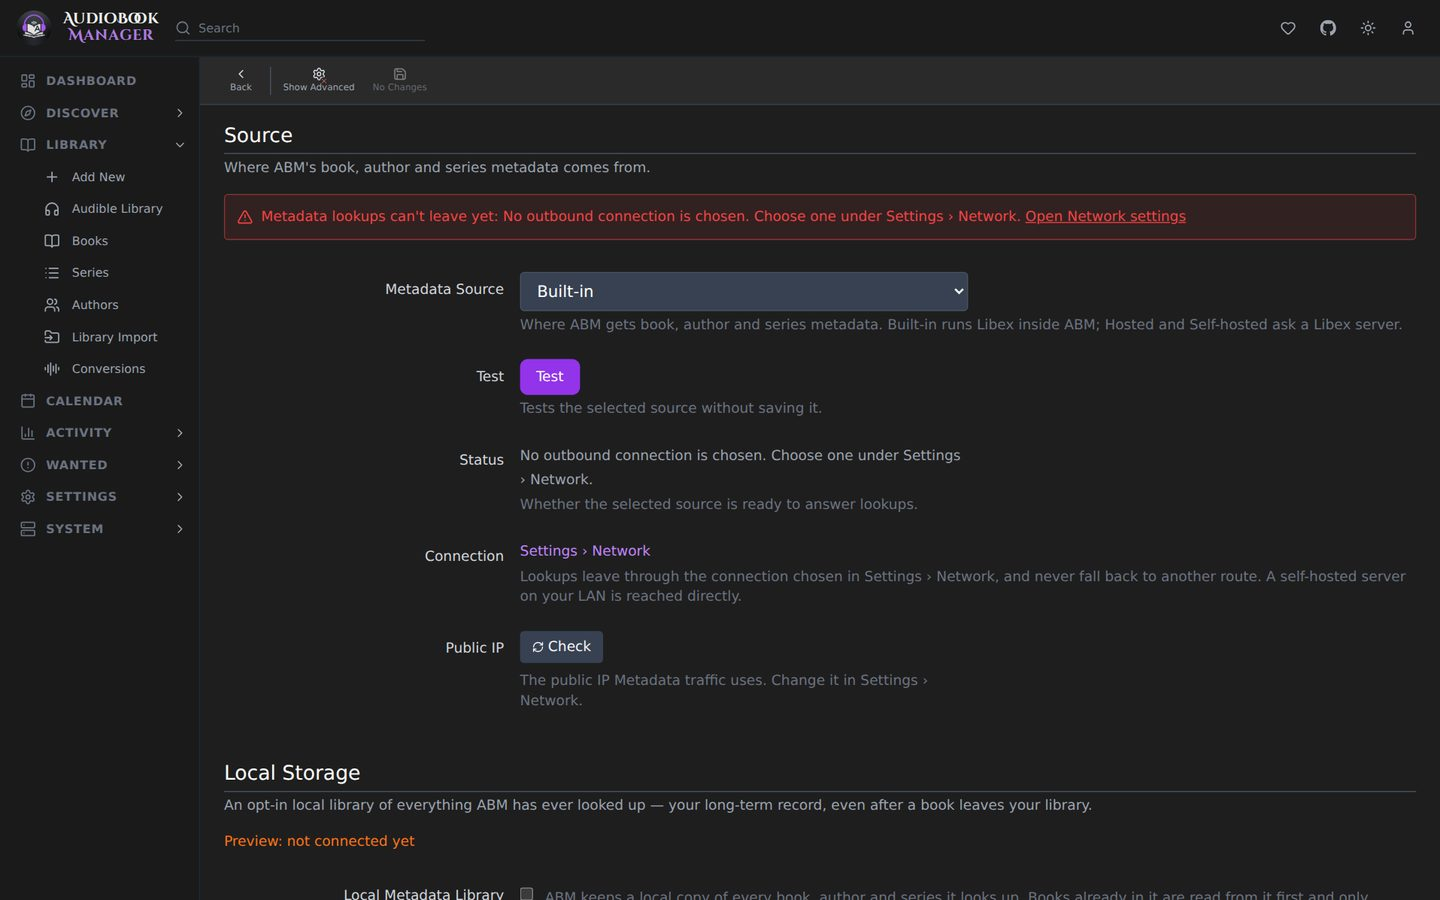
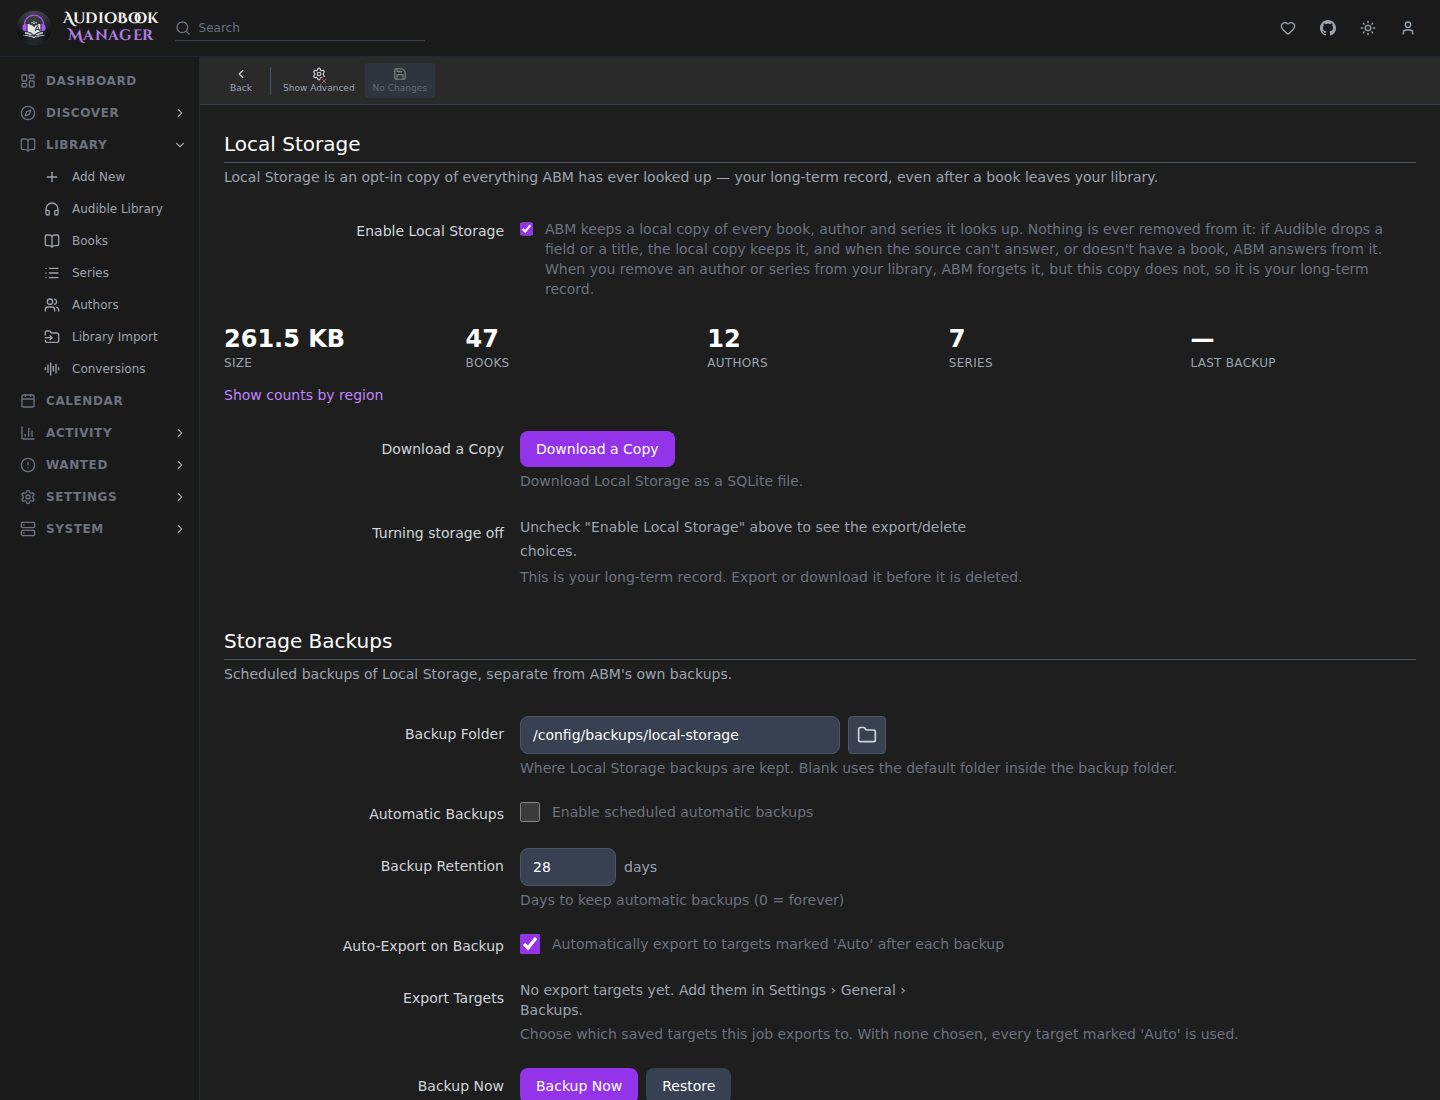
recapture the metadata settings screenshot from the local storage build and update the english variants to match the english source

diff --git a/src/content/docs/en-au/settings/metadata.md b/src/content/docs/en-au/settings/metadata.md
@@ -34,7 +34,39 @@ Tag fields, all on by default: Title, Artist (Author), Album Artist (Author), Al
 
 ## Local Storage
 
-With the Built-in source, **Local Storage** and **Storage Backups** sections are shown. They are a preview and are not connected yet. See [Your metadata, your control](/en-au/metadata/control/).
+**Enable Local Storage** is off by default and is there for every metadata source. Once it is on, ABM saves every book, author and series a lookup returns, taken from the answers it receives, into a file of its own. It shows the file's size and how many books, authors and series it holds. The totals cover every region, with a breakdown by region when more than one region has data. A file that can't be opened is reported there and never stops lookups. How it is used is on [Your metadata, your control](/en-au/metadata/control/#local-storage).
+
+**Download a Copy** saves the library as a single SQLite file.
+
+Turning it off opens a dialog. You can pick any combination of two optional copies, or neither:
+
+- **Export to backup targets.** Sends the library to your export targets.
+- **Download a copy.** Saves the library as a SQLite file.
+
+Then you pick one of two choices, which is required:
+
+- **Keep the local data.** It stays, and is used again the next time you turn Local Storage on.
+- **Delete it.** Deleted Local Storage can't be recovered unless you made a copy.
+
+If the export or the download fails, nothing is deleted and Local Storage stays on.
+
+## Storage Backups
+
+Shown while Local Storage is on. These backups are separate from the ABM backups under [Backups](/en-au/system/backups/).
+
+| Setting | Default | Effect |
+|---|---|---|
+| Backup Folder | blank | Where they are kept. Blank uses the default folder inside the backup folder |
+| Automatic Backups, schedule | off, daily | Work like the schedule under [General](/en-au/settings/general/#backups) |
+| Backup Retention | 28 days | Age at which automatic backups are removed. 0 keeps them forever. Manual backups are kept |
+| Auto-Export on Backup | on | Send each backup to the export targets after it is made |
+| Export Targets | none picked | Pick the saved targets to use. With none picked, every target marked **Auto** is used |
+
+The targets are the ones saved under General > Backups. If every target you picked is deleted, the export turns off instead of going to all of them.
+
+**Backup Now** runs one straight away. The list shows each backup with **Download**, **Export**, **Restore** and **Delete**. **Restore from a file** takes a backup you uploaded. Delete always asks you to confirm. Restore asks for your account password when one is set. A restore that fails leaves the current library as it was. If a backup is already gone, or an export can't reach its target, the action reports the reason instead of failing quietly, and nothing else is touched.
+
+The Tasks page shows the job as **Local Storage Backup**. An ABM backup carries the Local Storage switch and its backup schedule, not the stored lookups, so restoring one turns Local Storage back on without bringing the library back.
 
 ## Gotchas
 

diff --git a/src/content/docs/en-ca/settings/metadata.md b/src/content/docs/en-ca/settings/metadata.md
@@ -34,7 +34,39 @@ Tag fields, all on by default: Title, Artist (Author), Album Artist (Author), Al
 
 ## Local Storage
 
-With the Built-in source, **Local Storage** and **Storage Backups** sections are shown. They are a preview and are not connected yet. See [Your metadata, your control](/en-ca/metadata/control/).
+**Enable Local Storage** is off by default and is there for every metadata source. Once it is on, ABM saves every book, author and series a lookup returns, taken from the answers it receives, into a file of its own. It shows the file's size and how many books, authors and series it holds. The totals cover every region, with a breakdown by region when more than one region has data. A file that can't be opened is reported there and never stops lookups. How it is used is on [Your metadata, your control](/en-ca/metadata/control/#local-storage).
+
+**Download a Copy** saves the library as a single SQLite file.
+
+Turning it off opens a dialog. You can pick any combination of two optional copies, or neither:
+
+- **Export to backup targets.** Sends the library to your export targets.
+- **Download a copy.** Saves the library as a SQLite file.
+
+Then you pick one of two choices, which is required:
+
+- **Keep the local data.** It stays, and is used again the next time you turn Local Storage on.
+- **Delete it.** Deleted Local Storage can't be recovered unless you made a copy.
+
+If the export or the download fails, nothing is deleted and Local Storage stays on.
+
+## Storage Backups
+
+Shown while Local Storage is on. These backups are separate from the ABM backups under [Backups](/en-ca/system/backups/).
+
+| Setting | Default | Effect |
+|---|---|---|
+| Backup Folder | blank | Where they are kept. Blank uses the default folder inside the backup folder |
+| Automatic Backups, schedule | off, daily | Work like the schedule under [General](/en-ca/settings/general/#backups) |
+| Backup Retention | 28 days | Age at which automatic backups are removed. 0 keeps them forever. Manual backups are kept |
+| Auto-Export on Backup | on | Send each backup to the export targets after it is made |
+| Export Targets | none picked | Pick the saved targets to use. With none picked, every target marked **Auto** is used |
+
+The targets are the ones saved under General > Backups. If every target you picked is deleted, the export turns off instead of going to all of them.
+
+**Backup Now** runs one straight away. The list shows each backup with **Download**, **Export**, **Restore** and **Delete**. **Restore from a file** takes a backup you uploaded. Delete always asks you to confirm. Restore asks for your account password when one is set. A restore that fails leaves the current library as it was. If a backup is already gone, or an export can't reach its target, the action reports the reason instead of failing quietly, and nothing else is touched.
+
+The Tasks page shows the job as **Local Storage Backup**. An ABM backup carries the Local Storage switch and its backup schedule, not the stored lookups, so restoring one turns Local Storage back on without bringing the library back.
 
 ## Gotchas
 

diff --git a/src/content/docs/en-gb/settings/metadata.md b/src/content/docs/en-gb/settings/metadata.md
@@ -34,7 +34,39 @@ Tag fields, all on by default: Title, Artist (Author), Album Artist (Author), Al
 
 ## Local Storage
 
-With the Built-in source, **Local Storage** and **Storage Backups** sections are shown. They are a preview and are not connected yet. See [Your metadata, your control](/en-gb/metadata/control/).
+**Enable Local Storage** is off by default and is there for every metadata source. Once it is on, ABM saves every book, author and series a lookup returns, taken from the answers it receives, into a file of its own. It shows the file's size and how many books, authors and series it holds. The totals cover every region, with a breakdown by region when more than one region has data. A file that can't be opened is reported there and never stops lookups. How it is used is on [Your metadata, your control](/en-gb/metadata/control/#local-storage).
+
+**Download a Copy** saves the library as a single SQLite file.
+
+Turning it off opens a dialog. You can pick any combination of two optional copies, or neither:
+
+- **Export to backup targets.** Sends the library to your export targets.
+- **Download a copy.** Saves the library as a SQLite file.
+
+Then you pick one of two choices, which is required:
+
+- **Keep the local data.** It stays, and is used again the next time you turn Local Storage on.
+- **Delete it.** Deleted Local Storage can't be recovered unless you made a copy.
+
+If the export or the download fails, nothing is deleted and Local Storage stays on.
+
+## Storage Backups
+
+Shown while Local Storage is on. These backups are separate from the ABM backups under [Backups](/en-gb/system/backups/).
+
+| Setting | Default | Effect |
+|---|---|---|
+| Backup Folder | blank | Where they are kept. Blank uses the default folder inside the backup folder |
+| Automatic Backups, schedule | off, daily | Work like the schedule under [General](/en-gb/settings/general/#backups) |
+| Backup Retention | 28 days | Age at which automatic backups are removed. 0 keeps them forever. Manual backups are kept |
+| Auto-Export on Backup | on | Send each backup to the export targets after it is made |
+| Export Targets | none picked | Pick the saved targets to use. With none picked, every target marked **Auto** is used |
+
+The targets are the ones saved under General > Backups. If every target you picked is deleted, the export turns off instead of going to all of them.
+
+**Backup Now** runs one straight away. The list shows each backup with **Download**, **Export**, **Restore** and **Delete**. **Restore from a file** takes a backup you uploaded. Delete always asks you to confirm. Restore asks for your account password when one is set. A restore that fails leaves the current library as it was. If a backup is already gone, or an export can't reach its target, the action reports the reason instead of failing quietly, and nothing else is touched.
+
+The Tasks page shows the job as **Local Storage Backup**. An ABM backup carries the Local Storage switch and its backup schedule, not the stored lookups, so restoring one turns Local Storage back on without bringing the library back.
 
 ## Gotchas
 

diff --git a/src/content/docs/en-au/metadata/control.md b/src/content/docs/en-au/metadata/control.md
@@ -47,7 +47,23 @@ Tags are yours. Auto tags apply them by rules (genre, narrator, rating, runtime 
 
 Everything ABM learns about a book stays in ABM's own SQLite database in `/config`, including books you later remove. Back that folder up and the record is backed up. Metadata does not depend on the source being reachable once a book is in.
 
-The **Local Storage** section on **Settings > Metadata**, shown with the Built-in source, is a preview of an opt-in local copy of everything ABM has looked up. It is not connected yet.
+## Local Storage
+
+Local Storage is an opt-in copy of everything ABM has looked up, kept in a file of its own. It is off by default. Turn it on under **Settings > Metadata**; see [Metadata settings](/en-au/settings/metadata/#local-storage). Once it is on, every book, author and series a lookup returns is saved from the answers ABM receives. It is written after the answer has gone back, so it never slows a search. Nothing is removed from it, so it stays your long-term record even after a book leaves your library.
+
+**When the source can't answer.** When the source times out, is down, or says it has no such book, the saved copy answers if it is ready in time. The result carries a **Local Storage** badge with the date it was saved, and **Delisted?** when the source says the book is gone, which means it may have been removed from sale. Searches also add saved matches the source did not return. The badge shows wherever the result does, including the add-book window, the import workbench and the editions list. A rate limit or a lost connection still stops a background run instead of being answered from the saved copy.
+
+**Saved answers are never trusted blindly.**
+
+- Nothing is added as wanted, matched or imported from a book only Local Storage knows. A scan, an import list, or an author or series refresh leaves it for you.
+- A refresh answered from Local Storage only fills in what is missing. It never overwrites your changes, and it does not count as a refresh.
+- Run summaries say how much came from Local Storage.
+
+**Repeat lookups.** ABM reuses a source's last answer to the same lookup for 300 seconds. A repeat within that time is not recorded again and gets no saved rows.
+
+**Turning it off** lets you export it to your backup targets and download a copy first, in any combination, then asks whether to keep the local data or delete it. If a copy fails, nothing is deleted and Local Storage stays on.
+
+**Backup and restore.** Local Storage has its own backups, on a schedule or by **Backup Now**, kept apart from the ABM backups and never shown in their list. They can be exported to your backup targets, downloaded, restored from the list or from an uploaded file, and deleted. Restoring asks for your password when one is set, and a restore that fails leaves the current library in place. See [Storage Backups](/en-au/settings/metadata/#storage-backups).
 
 ## Refresh schedules
 

diff --git a/src/content/docs/en-ca/metadata/control.md b/src/content/docs/en-ca/metadata/control.md
@@ -47,7 +47,23 @@ Tags are yours. Auto tags apply them by rules (genre, narrator, rating, runtime 
 
 Everything ABM learns about a book stays in ABM's own SQLite database in `/config`, including books you later remove. Back that folder up and the record is backed up. Metadata does not depend on the source being reachable once a book is in.
 
-The **Local Storage** section on **Settings > Metadata**, shown with the Built-in source, is a preview of an opt-in local copy of everything ABM has looked up. It is not connected yet.
+## Local Storage
+
+Local Storage is an opt-in copy of everything ABM has looked up, kept in a file of its own. It is off by default. Turn it on under **Settings > Metadata**; see [Metadata settings](/en-ca/settings/metadata/#local-storage). Once it is on, every book, author and series a lookup returns is saved from the answers ABM receives. It is written after the answer has gone back, so it never slows a search. Nothing is removed from it, so it stays your long-term record even after a book leaves your library.
+
+**When the source can't answer.** When the source times out, is down, or says it has no such book, the saved copy answers if it is ready in time. The result carries a **Local Storage** badge with the date it was saved, and **Delisted?** when the source says the book is gone, which means it may have been removed from sale. Searches also add saved matches the source did not return. The badge shows wherever the result does, including the add-book window, the import workbench and the editions list. A rate limit or a lost connection still stops a background run instead of being answered from the saved copy.
+
+**Saved answers are never trusted blindly.**
+
+- Nothing is added as wanted, matched or imported from a book only Local Storage knows. A scan, an import list, or an author or series refresh leaves it for you.
+- A refresh answered from Local Storage only fills in what is missing. It never overwrites your changes, and it does not count as a refresh.
+- Run summaries say how much came from Local Storage.
+
+**Repeat lookups.** ABM reuses a source's last answer to the same lookup for 300 seconds. A repeat within that time is not recorded again and gets no saved rows.
+
+**Turning it off** lets you export it to your backup targets and download a copy first, in any combination, then asks whether to keep the local data or delete it. If a copy fails, nothing is deleted and Local Storage stays on.
+
+**Backup and restore.** Local Storage has its own backups, on a schedule or by **Backup Now**, kept apart from the ABM backups and never shown in their list. They can be exported to your backup targets, downloaded, restored from the list or from an uploaded file, and deleted. Restoring asks for your password when one is set, and a restore that fails leaves the current library in place. See [Storage Backups](/en-ca/settings/metadata/#storage-backups).
 
 ## Refresh schedules
 

diff --git a/src/content/docs/en-gb/metadata/control.md b/src/content/docs/en-gb/metadata/control.md
@@ -47,7 +47,23 @@ Tags are yours. Auto tags apply them by rules (genre, narrator, rating, runtime 
 
 Everything ABM learns about a book stays in ABM's own SQLite database in `/config`, including books you later remove. Back that folder up and the record is backed up. Metadata does not depend on the source being reachable once a book is in.
 
-The **Local Storage** section on **Settings > Metadata**, shown with the Built-in source, is a preview of an opt-in local copy of everything ABM has looked up. It is not connected yet.
+## Local Storage
+
+Local Storage is an opt-in copy of everything ABM has looked up, kept in a file of its own. It is off by default. Turn it on under **Settings > Metadata**; see [Metadata settings](/en-gb/settings/metadata/#local-storage). Once it is on, every book, author and series a lookup returns is saved from the answers ABM receives. It is written after the answer has gone back, so it never slows a search. Nothing is removed from it, so it stays your long-term record even after a book leaves your library.
+
+**When the source can't answer.** When the source times out, is down, or says it has no such book, the saved copy answers if it is ready in time. The result carries a **Local Storage** badge with the date it was saved, and **Delisted?** when the source says the book is gone, which means it may have been removed from sale. Searches also add saved matches the source did not return. The badge shows wherever the result does, including the add-book window, the import workbench and the editions list. A rate limit or a lost connection still stops a background run instead of being answered from the saved copy.
+
+**Saved answers are never trusted blindly.**
+
+- Nothing is added as wanted, matched or imported from a book only Local Storage knows. A scan, an import list, or an author or series refresh leaves it for you.
+- A refresh answered from Local Storage only fills in what is missing. It never overwrites your changes, and it does not count as a refresh.
+- Run summaries say how much came from Local Storage.
+
+**Repeat lookups.** ABM reuses a source's last answer to the same lookup for 300 seconds. A repeat within that time is not recorded again and gets no saved rows.
+
+**Turning it off** lets you export it to your backup targets and download a copy first, in any combination, then asks whether to keep the local data or delete it. If a copy fails, nothing is deleted and Local Storage stays on.
+
+**Backup and restore.** Local Storage has its own backups, on a schedule or by **Backup Now**, kept apart from the ABM backups and never shown in their list. They can be exported to your backup targets, downloaded, restored from the list or from an uploaded file, and deleted. Restoring asks for your password when one is set, and a restore that fails leaves the current library in place. See [Storage Backups](/en-gb/settings/metadata/#storage-backups).
 
 ## Refresh schedules
 

diff --git a/src/content/docs/settings/metadata.md b/src/content/docs/settings/metadata.md
@@ -5,7 +5,7 @@ description: Which sidecar files and audio tags ABM writes, and when.
 
 **Settings > Metadata** decides what ABM writes into a book's folder and its files. How these files are used is on [Sidecar files](/using/sidecars/).
 
-![Settings, Metadata: which sidecar files to create and which audio tags to write](../../../assets/docs/settings-metadata.jpg)
+![Settings, Metadata: the Local Storage section with Enable Local Storage, its size and counts, Download a Copy, and Storage Backups](../../../assets/docs/settings-metadata.jpg)
 
 ## Source
 
